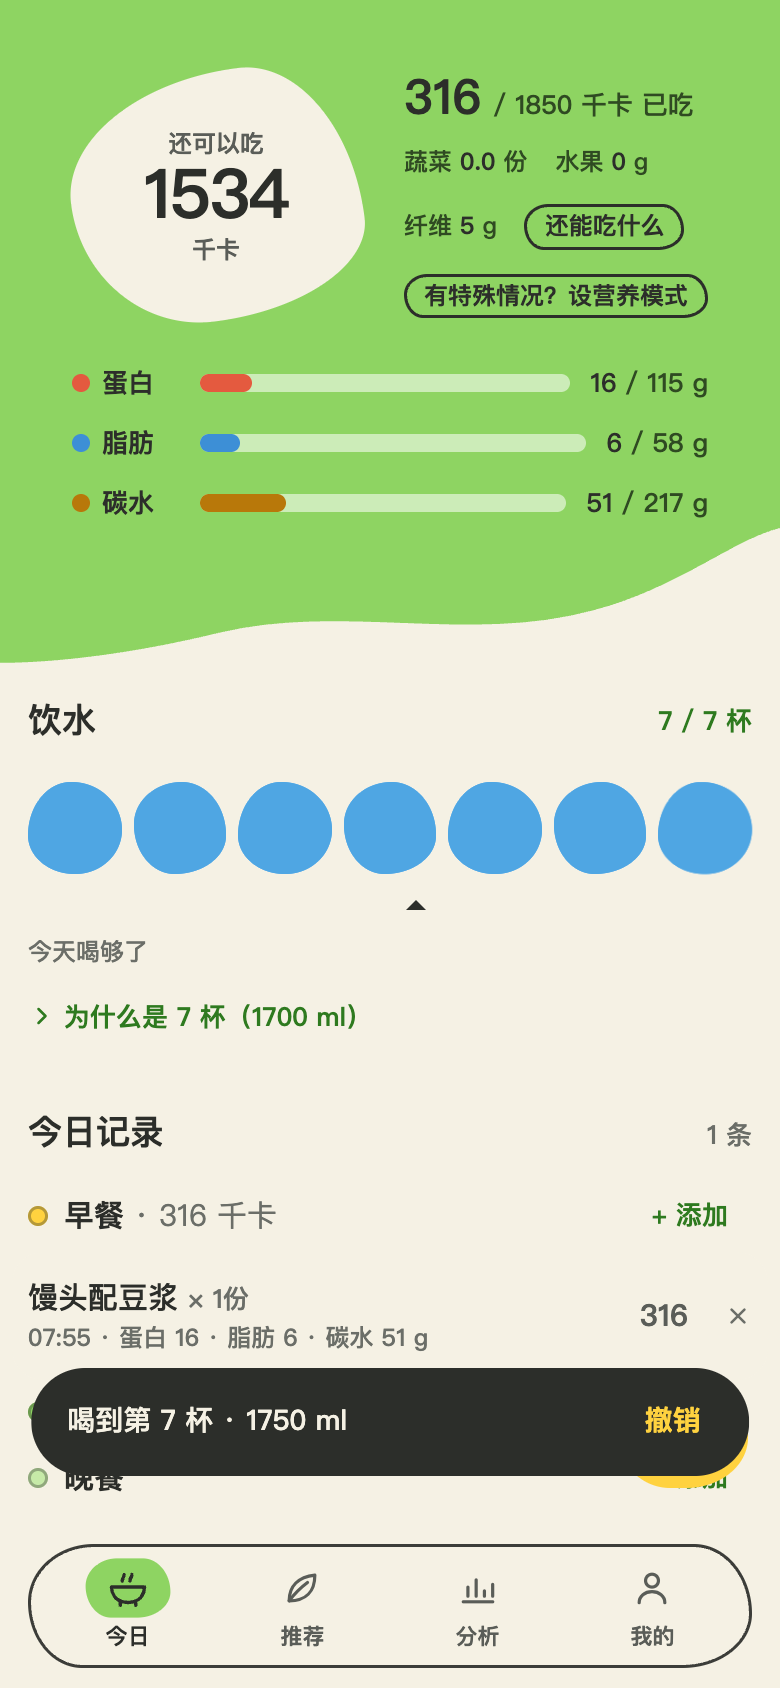
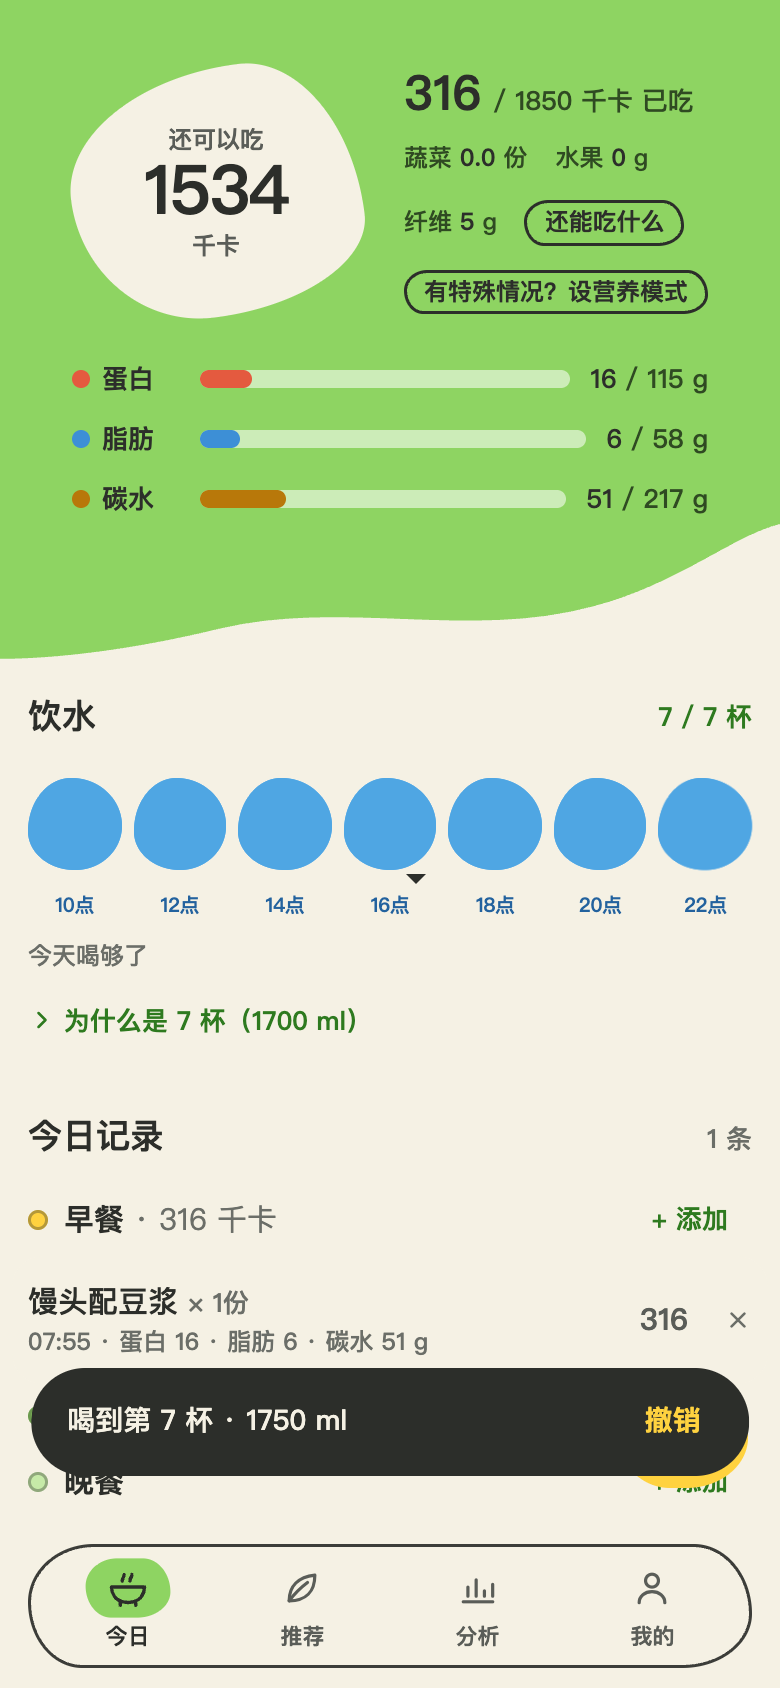
饮水水塘：时刻标签移出裁切的按钮，「现在」三角落在水塘与标签之间

diff --git a/src/styles.css b/src/styles.css
@@ -467,15 +467,16 @@ input[type="checkbox"] { accent-color: var(--accent); width: 16px; height: 16px;
 .finding.summary .title { font-weight: 700; }
 
 /* ========== 饮水：一排 250 ml 的小水塘沿 8~22 点排开 ========== */
-.ponds { position: relative; display: flex; gap: 6px; padding: 6px 0 22px; }
-.pond { position: relative; flex: 1; height: 46px; border: none; padding: 0; background: var(--surface); border-radius: 46% 54% 50% 50% / 58% 52% 48% 42%; box-shadow: inset 0 0 0 1.5px var(--stroke); overflow: hidden; cursor: pointer; transition: transform var(--t-coast) var(--ease-coast), box-shadow var(--t-med); }
+.ponds { position: relative; display: flex; gap: 6px; padding: 6px 0 4px; }
+.pond-slot { flex: 1; min-width: 0; display: flex; flex-direction: column; align-items: center; gap: 12px; }
+.pond { position: relative; width: 100%; height: 46px; border: none; padding: 0; background: var(--surface); border-radius: 46% 54% 50% 50% / 58% 52% 48% 42%; box-shadow: inset 0 0 0 1.5px var(--stroke); overflow: hidden; cursor: pointer; transition: transform var(--t-coast) var(--ease-coast), box-shadow var(--t-med); }
 .pond:nth-child(even) { border-radius: 52% 48% 56% 44% / 46% 58% 42% 54%; }
 .pond:active { transform: scale(.94); }
 .pond.lit { box-shadow: inset 0 0 0 1.5px var(--pond); }
 .pond-water { position: absolute; left: 0; right: 0; bottom: 0; height: 100%; background: var(--pond); transform-origin: 50% 100%; transition: transform var(--t-coast) var(--ease-coast); }
-.pond-lbl { position: absolute; left: 0; right: 0; top: calc(100% + 4px); font-size: 10px; font-weight: 600; color: var(--muted); text-align: center; letter-spacing: -0.02em; white-space: nowrap; }
-.pond.lit .pond-lbl { color: var(--fat-text); }
-.pond-now { position: absolute; bottom: 4px; width: 0; height: 0; border: 5px solid transparent; border-bottom-color: var(--ink); transform: translateX(-50%); }
+.pond-lbl { font-size: 10px; font-weight: 600; color: var(--muted); text-align: center; letter-spacing: -0.02em; white-space: nowrap; line-height: 1; }
+.pond-slot.lit .pond-lbl { color: var(--fat-text); }
+.pond-now { position: absolute; top: 54px; width: 0; height: 0; border: 5px solid transparent; border-top-color: var(--ink); transform: translateX(-50%); }
 /* 口渴：到点没喝的水塘轻轻发抖，顶上冒一颗小水滴 */
 .pond.thirsty { animation: thirsty 2.6s ease-in-out infinite; animation-delay: calc(var(--i, 0) * 180ms); box-shadow: inset 0 0 0 1.5px var(--stroke), inset 0 -6px 0 var(--surface-2); }
 .pond-drop { position: absolute; left: 50%; top: 9px; width: 8px; height: 10px; margin-left: -4px; background: var(--pond); border-radius: 50% 50% 50% 50% / 30% 30% 70% 70%; opacity: .9; animation: drop 2.6s ease-in-out infinite; animation-delay: calc(var(--i, 0) * 180ms); }
@@ -483,6 +484,7 @@ input[type="checkbox"] { accent-color: var(--accent); width: 16px; height: 16px;
 @keyframes drop { 0%, 60%, 100% { transform: translateY(0); opacity: .9; } 78% { transform: translateY(6px) scale(1.15); opacity: 1; } 90% { transform: translateY(2px); } }
 /* 全部点亮：整排荡一下水波 */
 .ponds.done .pond { animation: ripple .7s var(--ease-coast) 1; animation-delay: calc(var(--i, 0) * 60ms); }
+.pond.thirsty { --i: inherit; }
 @keyframes ripple { 0% { transform: none; } 40% { transform: translateY(-6px) scale(1.06); } 100% { transform: none; } }
 
 /* ========== Toast：墨色胶囊 ========== */

diff --git a/src/ui/Water.tsx b/src/ui/Water.tsx
@@ -62,12 +62,14 @@ export function WaterCard({ entries, targetMl, fluidMl, isToday, onSet }: {
           const fill = isLit ? 1 : i === lit + 1 ? partial : 0
           const thirsty = isToday && !isLit && h >= d
           return (
-            <button key={i} type="button" className={`pond${isLit ? ' lit' : ''}${thirsty ? ' thirsty' : ''}`} style={{ ['--i' as string]: idx }}
-              aria-pressed={isLit} aria-label={`第 ${i} 杯，${fmtHour(d)} 前${isLit ? '，已喝' : thirsty ? '，到点还没喝' : ''}`} onClick={() => tap(i)}>
-              <span className="pond-water" style={{ transform: `scaleY(${fill})` }} aria-hidden />
-              {thirsty && <span className="pond-drop" aria-hidden />}
+            <div key={i} className={`pond-slot${isLit ? ' lit' : ''}`} style={{ ['--i' as string]: idx }}>
+              <button type="button" className={`pond${isLit ? ' lit' : ''}${thirsty ? ' thirsty' : ''}`}
+                aria-pressed={isLit} aria-label={`第 ${i} 杯，${fmtHour(d)} 前${isLit ? '，已喝' : thirsty ? '，到点还没喝' : ''}`} onClick={() => tap(i)}>
+                <span className="pond-water" style={{ transform: `scaleY(${fill})` }} aria-hidden />
+                {thirsty && <span className="pond-drop" aria-hidden />}
+              </button>
               <span className="pond-lbl">{fmtHour(d)}</span>
-            </button>
+            </div>
           )
         })}
         {isToday && <span className="pond-now" style={{ left: `${nowPct}%` }} aria-hidden />}
